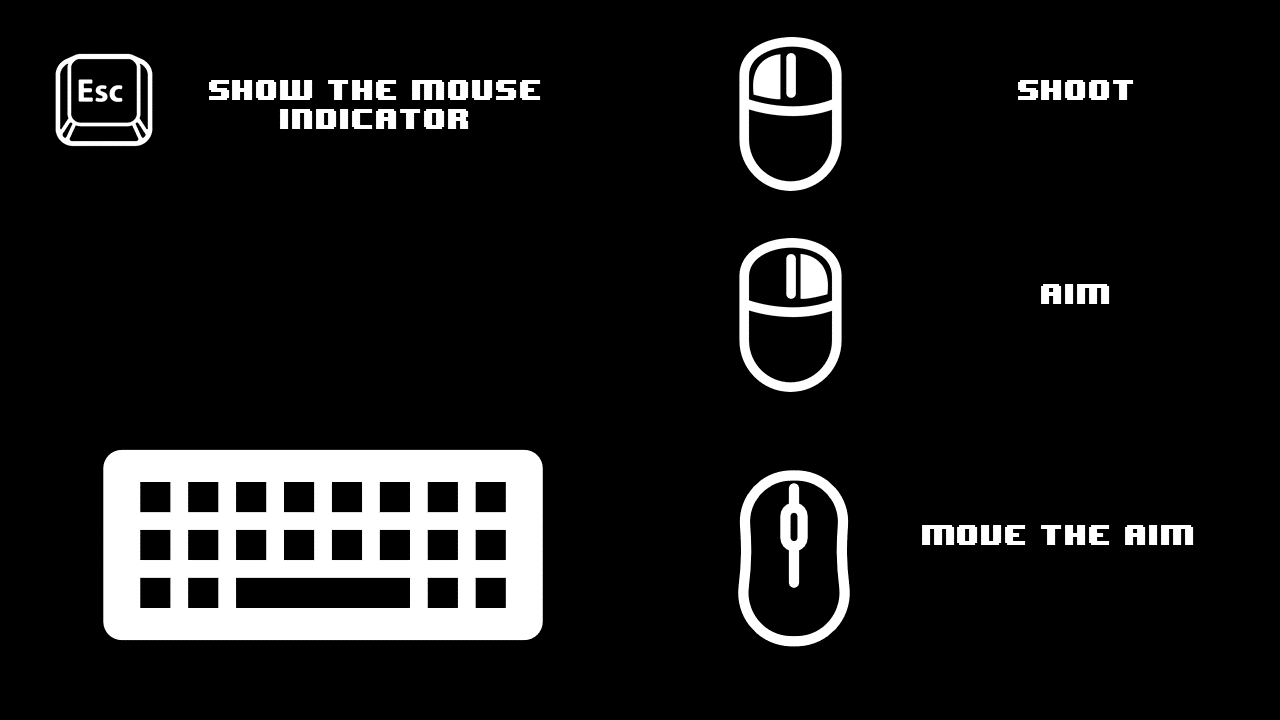
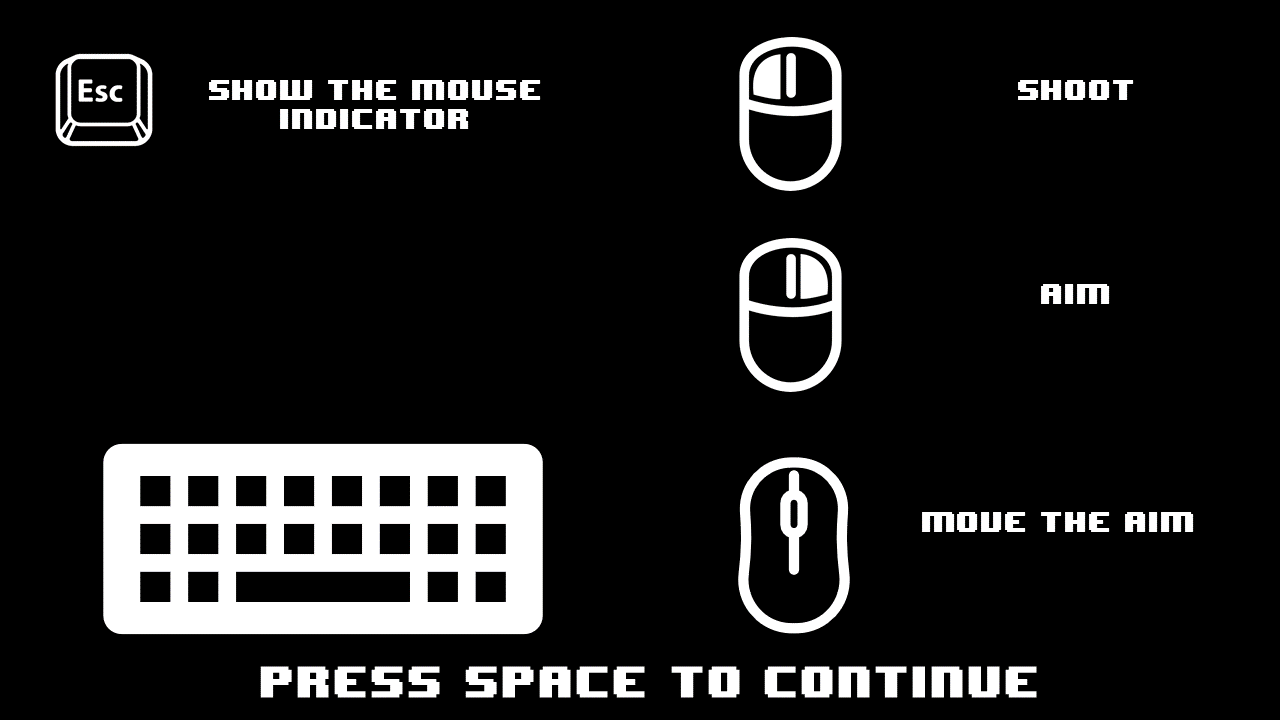
update

diff --git a/jogo.py b/jogo.py
@@ -18,6 +18,8 @@ mira_largura = 2500
 mira_altura = 1500
 
 # ----- Inicia assets
+controle = pygame.image.load('pygame/assets/img/controles.png').convert_alpha()
+controle = pygame.transform.scale(controle, (WIDTH, HEIGHT))
 inicial = pygame.image.load('pygame/assets/img/tela_inicial.jpg').convert_alpha()
 inicial = pygame.transform.scale(inicial, (WIDTH, HEIGHT))
 fonte = pygame.font.Font("pygame/assets/fontes/8-bit.ttf", 40)
@@ -154,6 +156,7 @@ class bolinha(pygame.sprite.Sprite):
         self.rect.x = x
         self.rect.y = y
 start = False
+inicia = False
 sim = True
 while sim:
     sim = False
@@ -254,7 +257,7 @@ while sim:
             if lose == True and not ja_tocou_perdeu:
                 perder_som.play(0)
                 ja_tocou_perdeu = True
-            if start == False and not ja_tocou_start:
+            if start == False and inicia and not ja_tocou_start:
                 inicial_som.play(0)
                 ja_tocou_start = True
             if start == True and ja_tocou_start:
@@ -267,10 +270,12 @@ while sim:
                 ja_tocou_game = True
             if jogo == True and ja_tocou_start:
                 jogo_som.stop()
-        
-
-            if event.type == KEYDOWN:
+            if event.type == KEYDOWN and inicia:
                 start =True
+            if event.type == KEYDOWN and not inicia:
+                if event.key == pygame.K_SPACE:
+                    inicia = True
+            
                 pygame.mouse.set_visible(False)
             text = fonte.render(str(balas), True, (255, 255, 255))
             pontos = fonte3.render(str(pontuacao), True, (255, 255, 255))
@@ -324,9 +329,12 @@ while sim:
             bolinha1.update(mouse_x_b,mouse_y_b)
         # ----- Gera saídas
         window.fill((0, 0, 0))
-        window.blit(inicial,(0,0))
-        window.blit(texto, ((WIDTH/4), 300))
-
+        if not inicia:
+            window.blit(controle,(0,0))
+        if inicia:
+            window.blit(inicial,(0,0))
+            window.blit(texto, ((WIDTH/4), 300))
+        
         if start:
             # Preenche com a cor branca
             window.blit(background, (0,0))
